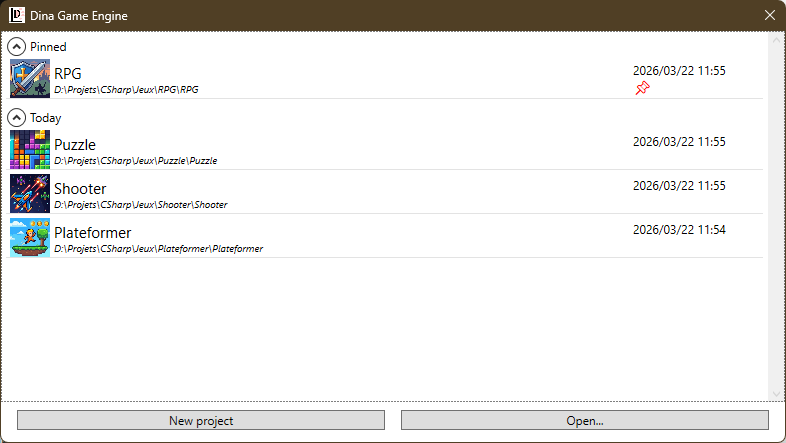
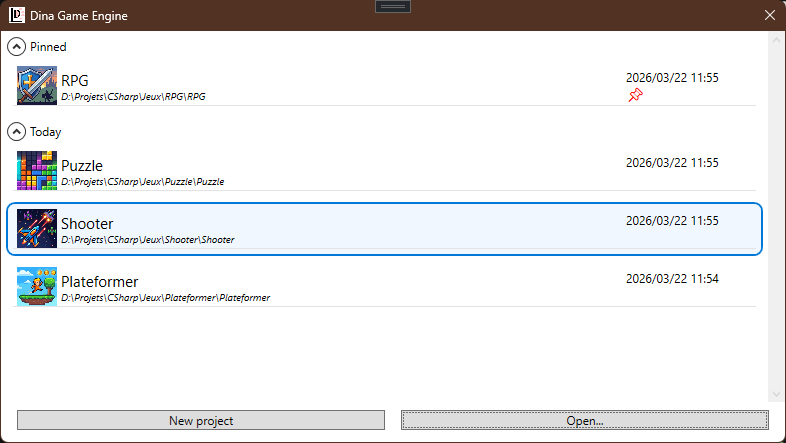
Amélioration du rendu de la liste des projets récents

diff --git a/DinaGameEngine/Views/UserControls/RecentProjectItemView.xaml b/DinaGameEngine/Views/UserControls/RecentProjectItemView.xaml
@@ -4,113 +4,148 @@
              xmlns:mc="http://schemas.openxmlformats.org/markup-compatibility/2006" 
              xmlns:d="http://schemas.microsoft.com/expression/blend/2008" 
              xmlns:local="clr-namespace:DinaGameEngine.Views.UserControls"
+             xmlns:views="clr-namespace:DinaGameEngine.Views"
              xmlns:ext="clr-namespace:DinaGameEngine.Extensions"
              xmlns:conv="clr-namespace:DinaGameEngine.Converters"
              mc:Ignorable="d" 
              d:DesignHeight="60" d:DesignWidth="750"
              Margin="0,2,0,2">
-    <Grid>
-        <Grid.InputBindings>
-            <MouseBinding MouseAction="LeftDoubleClick"
-                          Command="{Binding OpenRecentProjectCommand}"/>
-        </Grid.InputBindings>
-        
-        <Grid.ColumnDefinitions>
-            <ColumnDefinition Width="48"/>
-            <ColumnDefinition Width="*"/>
-            <ColumnDefinition Width="130"/>
-        </Grid.ColumnDefinitions>
+    <UserControl.Resources>
+        <conv:EqualityToBoolConverter x:Key="EqualityToBoolConverter"/>
+    </UserControl.Resources>
+    <Border CornerRadius="8" Padding="5">
+        <Border.Style>
+            <Style TargetType="Border">
+                <Setter Property="BorderThickness" Value="2"/>
+                <Setter Property="BorderBrush" Value="Transparent"/>
+                <Setter Property="Background" Value="White"/>
 
-        <Grid.ContextMenu>
-            <ContextMenu>
-                <ContextMenu.Resources>
-                    <conv:BoolToVisibilityConverter x:Key="BoolToVisibility"/>
-                </ContextMenu.Resources>
-                <MenuItem Header="{ext:Translate Key=ContextMenu_RemoveFromList}"
+                <Style.Triggers>
+                    <Trigger Property="IsMouseOver" Value="True">
+                        <Setter Property="BorderBrush" Value="#E0E0E0"/>
+                        <Setter Property="Background" Value="#F9F9F9"/>
+                    </Trigger>
+
+                    <DataTrigger Value="True">
+                        <DataTrigger.Binding>
+                            <MultiBinding Converter="{StaticResource EqualityToBoolConverter}">
+                                <Binding Path="." />
+                                <Binding Path="DataContext.SelectedProject" RelativeSource="{RelativeSource AncestorType=Window}"/>
+                            </MultiBinding>
+                        </DataTrigger.Binding>
+                        <Setter Property="BorderBrush" Value="#0078D7"/>
+                        <Setter Property="Background" Value="#F0F7FF"/>
+                    </DataTrigger>
+                </Style.Triggers>
+            </Style>
+        </Border.Style>
+
+        <Grid Background="Transparent">
+            <Grid.InputBindings>
+                <MouseBinding MouseAction="LeftDoubleClick"
+                          Command="{Binding OpenRecentProjectCommand}"/>
+                <MouseBinding MouseAction="LeftClick" 
+                              Command="{Binding DataContext.SelectProjectCommand, RelativeSource={RelativeSource AncestorType=views:StartupWindow}}"
+                              CommandParameter="{Binding}"/>
+            </Grid.InputBindings>
+
+            <Grid.ColumnDefinitions>
+                <ColumnDefinition Width="48"/>
+                <ColumnDefinition Width="*"/>
+                <ColumnDefinition Width="130"/>
+            </Grid.ColumnDefinitions>
+
+            <Grid.ContextMenu>
+                <ContextMenu>
+                    <ContextMenu.Resources>
+                        <conv:BoolToVisibilityConverter x:Key="BoolToVisibility"/>
+                    </ContextMenu.Resources>
+                    <MenuItem Header="{ext:Translate Key=ContextMenu_RemoveFromList}"
                           Command="{Binding RemoveFromListCommand}" />
-                <MenuItem Header="{ext:Translate Key=ContextMenu_Unpin}"
+                    <MenuItem Header="{ext:Translate Key=ContextMenu_Unpin}"
                           Command="{Binding PinProjectCommand}"
                           Visibility="{Binding IsPinned, Converter={StaticResource BoolToVisibility}}"/>
-            </ContextMenu>
-        </Grid.ContextMenu>
-        
-        <Image Grid.Column="0"
+                </ContextMenu>
+            </Grid.ContextMenu>
+
+            <Image Grid.Column="0"
                Width="40" Height="40"
                HorizontalAlignment="Center"
                VerticalAlignment="Center"
                Source="{Binding IconPath, RelativeSource={RelativeSource AncestorType=UserControl}}"/>
 
-        <StackPanel Grid.Column="1" VerticalAlignment="Center">
-            <TextBlock Text="{Binding Title, RelativeSource={RelativeSource AncestorType=UserControl}}"
+            <StackPanel Grid.Column="1" VerticalAlignment="Center">
+                <TextBlock Text="{Binding Title, RelativeSource={RelativeSource AncestorType=UserControl}}"
                        FontSize="15"/>
-            <TextBlock Text="{Binding Path, RelativeSource={RelativeSource AncestorType=UserControl}}"
+                <TextBlock Text="{Binding Path, RelativeSource={RelativeSource AncestorType=UserControl}}"
                        FontSize="10" FontStyle="Italic"/>
-        </StackPanel>
-        <StackPanel Grid.Column="2" VerticalAlignment="Center" x:Name="PinStack">
-            <TextBlock Text="{Binding LastOpenedAt, RelativeSource={RelativeSource AncestorType=UserControl}}"/>
-            <Grid>
-                <!-- Épingle normale : survol non-épinglé + état épinglé sans survol -->
-                <TextBlock x:Name="NormalPin" Text="📌" FontSize="14" FontFamily="Segoe UI Emoji" Cursor="Hand">
-                    <TextBlock.Style>
-                        <Style TargetType="TextBlock">
-                            <Setter Property="Foreground" Value="Transparent"/>
-                            <Style.Triggers>
-                                <DataTrigger Binding="{Binding IsMouseOver, ElementName=PinStack}" Value="True">
-                                    <Setter Property="Foreground" Value="Gray"/>
-                                </DataTrigger>
-                                <MultiDataTrigger>
-                                    <MultiDataTrigger.Conditions>
-                                        <Condition Binding="{Binding IsMouseOver, ElementName=PinStack}" Value="True"/>
-                                        <Condition Binding="{Binding IsPinned, RelativeSource={RelativeSource AncestorType=UserControl}}" Value="True"/>
-                                    </MultiDataTrigger.Conditions>
-                                    <Setter Property="Foreground" Value="Transparent"/>
-                                </MultiDataTrigger>
-                                <MultiDataTrigger>
-                                    <MultiDataTrigger.Conditions>
-                                        <Condition Binding="{Binding IsMouseOver, ElementName=PinStack}" Value="False"/>
-                                        <Condition Binding="{Binding IsPinned, RelativeSource={RelativeSource AncestorType=UserControl}}" Value="True"/>
-                                    </MultiDataTrigger.Conditions>
-                                    <Setter Property="Foreground" Value="Red"/>
-                                </MultiDataTrigger>
-                            </Style.Triggers>
-                        </Style>
-                    </TextBlock.Style>
-                    <TextBlock.InputBindings>
-                        <MouseBinding MouseAction="LeftClick" Command="{Binding PinProjectCommand}"/>
-                    </TextBlock.InputBindings>
-                </TextBlock>
+            </StackPanel>
+            <StackPanel Grid.Column="2" VerticalAlignment="Center" x:Name="PinStack">
+                <TextBlock Text="{Binding LastOpenedAt, RelativeSource={RelativeSource AncestorType=UserControl}}"/>
+                <Grid>
+                    <!-- Épingle normale : survol non-épinglé + état épinglé sans survol -->
+                    <TextBlock x:Name="NormalPin" Text="📌" FontSize="14" FontFamily="Segoe UI Emoji" Cursor="Hand">
+                        <TextBlock.Style>
+                            <Style TargetType="TextBlock">
+                                <Setter Property="Foreground" Value="Transparent"/>
+                                <Style.Triggers>
+                                    <DataTrigger Binding="{Binding IsMouseOver, ElementName=PinStack}" Value="True">
+                                        <Setter Property="Foreground" Value="Gray"/>
+                                    </DataTrigger>
+                                    <MultiDataTrigger>
+                                        <MultiDataTrigger.Conditions>
+                                            <Condition Binding="{Binding IsMouseOver, ElementName=PinStack}" Value="True"/>
+                                            <Condition Binding="{Binding IsPinned, RelativeSource={RelativeSource AncestorType=UserControl}}" Value="True"/>
+                                        </MultiDataTrigger.Conditions>
+                                        <Setter Property="Foreground" Value="Transparent"/>
+                                    </MultiDataTrigger>
+                                    <MultiDataTrigger>
+                                        <MultiDataTrigger.Conditions>
+                                            <Condition Binding="{Binding IsMouseOver, ElementName=PinStack}" Value="False"/>
+                                            <Condition Binding="{Binding IsPinned, RelativeSource={RelativeSource AncestorType=UserControl}}" Value="True"/>
+                                        </MultiDataTrigger.Conditions>
+                                        <Setter Property="Foreground" Value="Red"/>
+                                    </MultiDataTrigger>
+                                </Style.Triggers>
+                            </Style>
+                        </TextBlock.Style>
+                        <TextBlock.InputBindings>
+                            <MouseBinding MouseAction="LeftClick" Command="{Binding PinProjectCommand}"/>
+                        </TextBlock.InputBindings>
+                    </TextBlock>
 
-                <!-- Épingle retournée : survol d'un projet épinglé -->
-                <TextBlock x:Name="ReversedPin" Text="📌"
+                    <!-- Épingle retournée : survol d'un projet épinglé -->
+                    <TextBlock x:Name="ReversedPin" Text="📌"
                            FontSize="14" FontFamily="Segoe UI Emoji"
                            Cursor="Hand" RenderTransformOrigin="0.5,0.5">
-                    <TextBlock.RenderTransform>
-                        <ScaleTransform ScaleX="-1"/>
-                    </TextBlock.RenderTransform>
-                    <TextBlock.Style>
-                        <Style TargetType="TextBlock">
-                            <Setter Property="Foreground" Value="Transparent"/>
-                            <Style.Triggers>
-                                <MultiDataTrigger>
-                                    <MultiDataTrigger.Conditions>
-                                        <Condition Binding="{Binding IsMouseOver, ElementName=PinStack}" Value="True"/>
-                                        <Condition Binding="{Binding IsPinned, RelativeSource={RelativeSource AncestorType=UserControl}}" Value="True"/>
-                                    </MultiDataTrigger.Conditions>
-                                    <Setter Property="Foreground" Value="Red"/>
-                                    <Setter Property="HorizontalAlignment" Value="Left"/>
-                                </MultiDataTrigger>
-                            </Style.Triggers>
-                        </Style>
-                    </TextBlock.Style>
-                    <TextBlock.InputBindings>
-                        <MouseBinding MouseAction="LeftClick" Command="{Binding PinProjectCommand}"/>
-                    </TextBlock.InputBindings>
-                </TextBlock>
-            </Grid>
-        </StackPanel>
-        <Border Grid.ColumnSpan="3"
+                        <TextBlock.RenderTransform>
+                            <ScaleTransform ScaleX="-1"/>
+                        </TextBlock.RenderTransform>
+                        <TextBlock.Style>
+                            <Style TargetType="TextBlock">
+                                <Setter Property="Foreground" Value="Transparent"/>
+                                <Style.Triggers>
+                                    <MultiDataTrigger>
+                                        <MultiDataTrigger.Conditions>
+                                            <Condition Binding="{Binding IsMouseOver, ElementName=PinStack}" Value="True"/>
+                                            <Condition Binding="{Binding IsPinned, RelativeSource={RelativeSource AncestorType=UserControl}}" Value="True"/>
+                                        </MultiDataTrigger.Conditions>
+                                        <Setter Property="Foreground" Value="Red"/>
+                                        <Setter Property="HorizontalAlignment" Value="Left"/>
+                                    </MultiDataTrigger>
+                                </Style.Triggers>
+                            </Style>
+                        </TextBlock.Style>
+                        <TextBlock.InputBindings>
+                            <MouseBinding MouseAction="LeftClick" Command="{Binding PinProjectCommand}"/>
+                        </TextBlock.InputBindings>
+                    </TextBlock>
+                </Grid>
+            </StackPanel>
+            <Border Grid.ColumnSpan="3"
                 VerticalAlignment="Bottom"
                 BorderBrush="{DynamicResource {x:Static SystemColors.ControlLightBrushKey}}"
                 BorderThickness="0,0,0,1"/>
-    </Grid>
+        </Grid>
+    </Border>
 </UserControl>

diff --git a/DinaGameEngine/ViewModels/StartupViewModel.cs b/DinaGameEngine/ViewModels/StartupViewModel.cs
@@ -34,7 +34,9 @@ namespace DinaGameEngine.ViewModels
             OpenProjectCommand = new RelayCommand(_ => OpenProject());
             GoToMarkerValidationCommand = new RelayCommand(execute: _ => GoToMarkerValidation(),
                                                            canExecute: _ => !string.IsNullOrEmpty(NewProjectName) && _fileService.DirectoryExists(NewProjectParentFolder));
-            GoToNewProjectCommand = new RelayCommand(() => GoToNewProject());
+            GoToNewProjectCommand = new RelayCommand(_ => GoToNewProject());
+
+            SelectProjectCommand = new RelayCommand(obj => SelectProject(obj));
 
             LoadRecentProjects();
         }
@@ -434,5 +436,11 @@ namespace DinaGameEngine.ViewModels
             CurrentState = StartupState.NewProject;
         }
 
+        public RelayCommand SelectProjectCommand { get; }
+        private void SelectProject(object? obj)
+        {
+            if (obj is RecentProjectViewModel recentProjectViewModel)
+                SelectedProject = recentProjectViewModel;
+        }
     }
 }

diff --git a/DinaGameEngine/Converters/EqualityToBoolConverter.cs b/DinaGameEngine/Converters/EqualityToBoolConverter.cs
@@ -1,0 +1,21 @@
+using System.Globalization;
+using System.Windows.Data;
+
+namespace DinaGameEngine.Converters
+{
+    public class EqualityToBoolConverter : IMultiValueConverter
+    {
+        public object Convert(object[] values, Type targetType, object parameter, CultureInfo culture)
+        {
+            if (values.Length < 2)
+                return false;
+            // Compare l'item actuel (DataContext) avec le SelectedProject du ViewModel parent
+            return values[0] == values[1];
+        }
+
+        public object[] ConvertBack(object value, Type[] targetTypes, object parameter, CultureInfo culture)
+        {
+            throw new NotImplementedException();
+        }
+    }
+}
